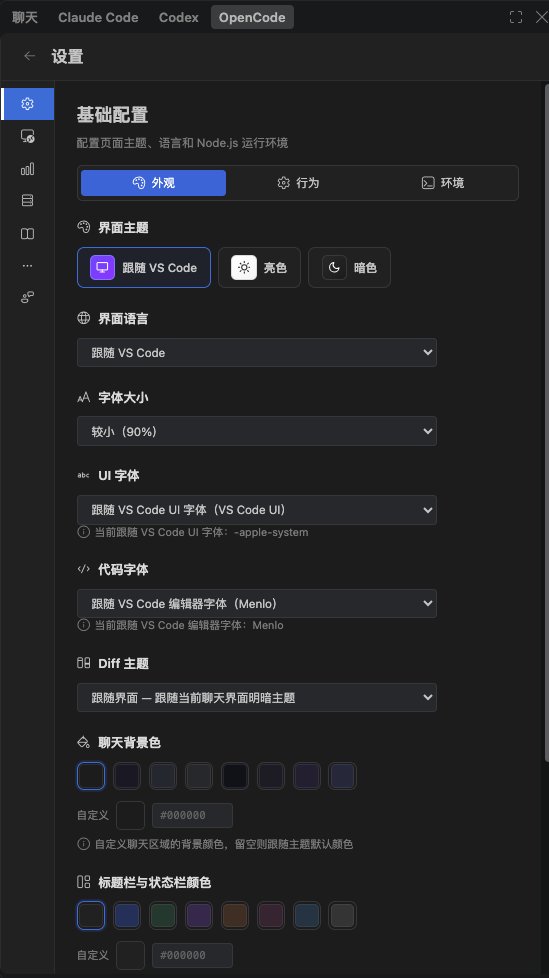
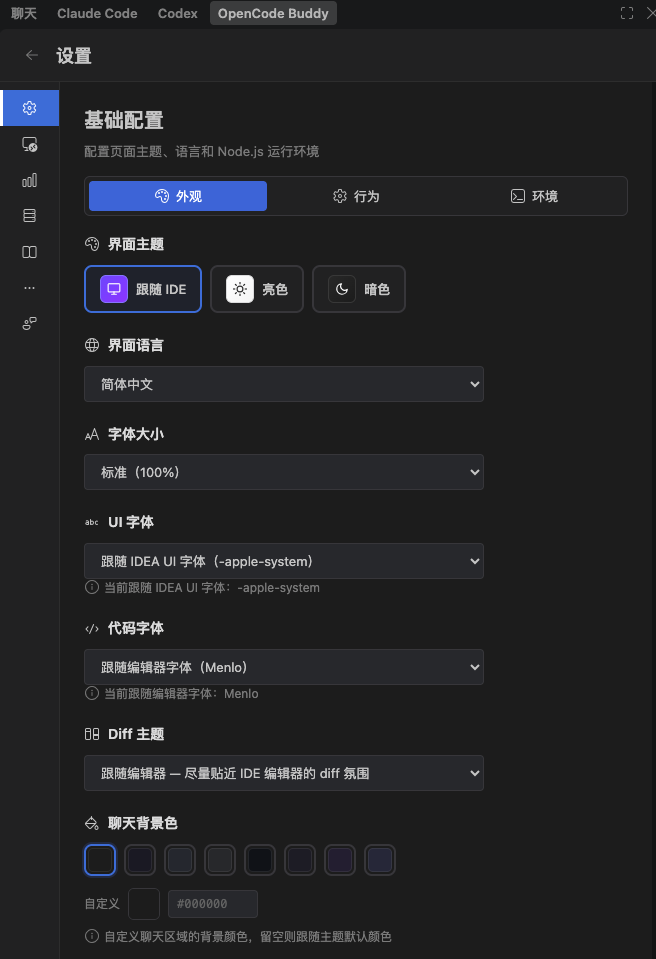
✨ 更新 readme

diff --git a/README.zh-CN.md b/README.zh-CN.md
@@ -20,57 +20,68 @@
 
 ## 功能特性
 
-- **持久化 opencode 守护进程** —— 无需为每条消息生成进程。`opencode serve`（默认端口 4096，可用
-  `OPENCODE_PORT` 覆盖）按需启动或复用，跨请求保持预热，崩溃后自动重启。
-- **完整聊天界面** —— 流式文本、思考增量、带 diff 的工具调用卡片；工具窗口内多标签会话，支持脱离为独立窗口。
-- **原生输入** —— `@文件名` 引用、图片附件、编辑器选区/文件路径一键发送、opencode 原生斜杠命令
-  （`/init`、`/review` 等）、`!shell` 命令，以及上下文压缩流程。
-- **Agent / 模型 / 推理力度** —— build / plan 模式切换，读取 opencode 配置里的任意 provider + model 组合，
-  以及推理力度（variant）选择。
-- **审批流** —— 权限审批（once / always / reject）、question 提问和 plan 计划审批，全部在聊天区内以原生面板呈现。
-- **会话管理** —— 本地会话索引 + 收藏 + 搜索，revert / fork / compact，历史导出。
-- **MCP** —— 服务器状态查看与市场（安装 / 移除 MCP 服务器）。
-- **IDE 集成** —— 编辑器、项目视图、编辑器标签页、控制台右键菜单动作，以及 VCS 提交工具栏的
-  *Generate Commit Message*（通过 Git4Idea 跑真实 `git diff`）。
-- **跟随 VS Code** —— 明暗主题跟随 VS Code，可同步 VS Code 字体，界面支持多种语言。
-
+- **持久化 OpenCode 守护进程** —— 无需为每条消息重新创建进程。基于 `@opencode-ai/sdk` 维护常驻的 `opencode serve`（默认端口 4096，支持通过 `OPENCODE_PORT` 自定义），跨请求保持预热、心跳保活、崩溃自动重启，并通过 `AsyncLocalStorage` 实现请求上下文隔离。
+- **完整流式交互界面** —— 支持流式文本生成、实时思考过程与增量展开（Thinking Deltas）、工具调用卡片与实时 Diff 展示。
+- **多面板与灵活布局** —— 支持 VS Code 左侧活动栏（Activity Bar）、右侧辅助侧边栏（Secondary Sidebar）以及编辑器分栏标签页（Editor Split）；支持在编辑器标题栏一键唤出。
+- **多会话标签页管理** —— 顶部原生多 Tab 会话设计，可在同一窗口内无缝切换、新建与管理多个独立对话。
+- **便捷上下文与输入交互**：
+  - `@` 快速检索并引用工作区文件或代码片段。
+  - 支持图片附件拖拽与剪贴板直接粘贴。
+  - 编辑器代码选区、文件路径一键发送至上下文。
+  - 支持 OpenCode 原生斜杠命令（`/init`、`/review` 等）与 `!shell` 命令。
+  - 支持上下文压缩（Context Compaction）以节省 Token。
+- **Agent 模式 / 模型 / 思考深度** —— 支持 Build / Plan 等工作模式快速切换；实时从本地 OpenCode 读取已配置的 Provider 与模型列表；支持按需调整思考深度 / 变体（Variant / Reasoning Depth，如 low/medium/high）。
+- **权限审批与交互式问答** —— 细粒度权限审批系统（支持单次允许、始终允许、拒绝），原生集成 OpenCode 交互式提问（AskUserQuestion 弹窗问答）与 Plan 计划确认流程。
+- **代码修改管理与一键回滚 (Undo File Changes)** —— 实时追踪 AI 对工作区文件的修改，支持按文件单项撤销或一键全量回滚代码变更。
+- **会话历史与时光穿梭 (Rewind / Fork)** —— 本地会话管理支持检索、收藏、重命名与删除；支持时光回溯（Rewind）到历史任意节点重新编辑与生成；支持将对话历史导出为 Markdown。
+- **MCP 服务与扩展市场** —— 实时监控 MCP 服务连接状态，内置 MCP 市场支持浏览、一键安装、移除与配置 MCP 服务器。
+- **技能系统管理 (Skills)** —— 支持全局（Global）与工作区（Local）技能的自动发现、一键导入、启用/禁用切换，并支持在 VS Code 中直接打开编辑 `SKILL.md`。
+- **Token 用量统计与监控** —— 实时追踪每次对话及工具调用的 Token 消耗与统计数据。
+- **外观与个性化定制** —— 完美融合 VS Code 亮暗主题；支持独立自定义 Webview 界面字体、代码等宽字体、字体大小；支持自定义聊天背景色、状态栏/标题栏色彩及 Diff 视图明暗主题；支持多语言切换。
 
 ## 使用教程
 
 ### 1. 打开聊天面板
 
-安装插件后，点击 VS Code 侧栏的 OpenCode 图标即可打开聊天界面。或者通过命令面板执行 `OpenCode: 在编辑器分栏打开 OpenCode`，在编辑器分栏中打开一个独立的标签页（每个标签页都是一个独立的会话）。
+安装插件后，可以通过以下几种方式打开 OpenCode Buddy：
+- 点击 VS Code 左侧活动栏的 **OpenCode 图标**。
+- 在编辑器标题栏右上角点击 **OpenCode 图标**。
+- 在命令面板（`Ctrl+Shift+P` / `Cmd+Shift+P`）执行：
+  - `打开 OpenCode Buddy 面板（左侧）`
+  - `新建 OpenCode Buddy 对话`（在编辑器分栏打开独立标签页，支持多个独立会话并发）
 
-<img src="media/home.png" width="400" alt="聊天主界面">
+<img src="media/home.png" width="600" alt="聊天主界面">
+
+*截图展示为简体中文界面。*
 
 界面区域一览：
 
-- **顶部 tab**：`聊天 / Claude Code / Codex / OpenCode` —— 快速切换不同会话。
-- **右上角**：新建会话 / 搜索 / 历史 / 设置。
-- **底部三栏**：
+- **顶部会话 Tab**：支持新建、关闭与快速切换多个独立对话会话。
+- **右上角操作区**：新建会话、搜索会话、历史记录列表、设置面板。
+- **底部控制栏**：
   - `任务 / 子代理 / 编辑` —— 切换输入模式。
-  - `Build` —— 选择工作模式（Build / Plan 等）。
-  - **模型选择** —— 切换当前模型（例如 `Nemotron-3.5-Lightning-Free`）。
-  - **推理深度** —— 例如 `medium`，控制模型思考深度。
-- **输入框**：支持 `@文件名` 引用文件、`/bash 命令`、`/opencode 命令`，回车发送。
+  - `Build / Plan` —— 切换工作模式。
+  - **模型选择** —— 快速切换当前生效的模型（如 `deepseek-v3`、`claude-3-7-sonnet` 等）。
+  - **思考深度 (Variant)** —— 控制思考模型的思考力度（如 `low`、`medium`、`high`）。
+- **输入框**：支持 `@文件名` 检索引用文件、图片拖拽粘贴、`/bash 命令`、`/opencode 命令`，按 `Enter` 发送（`Shift+Enter` 换行）。
 
 ### 2. 个性化设置
 
 点击聊天界面右上角的齿轮图标打开设置面板：
 
-<img src="media/settings.png" width="400" alt="设置页面">
+<img src="media/settings.png" width="350" alt="设置页面">
 
 **基础配置 → 外观** 主要选项：
 
 | 项 | 说明 |
 |---|---|
 | 界面主题 | 跟随 VS Code / 亮色 / 暗色 |
-| 界面语言 | 跟随 VS Code |
-| 字体大小 / UI 字体 / 代码字体 | 控制 webview 内的字号与字体 |
-| Diff 主题 | 控制 diff 视图的明暗主题 |
-| 聊天背景色 / 标题栏与状态栏颜色 | 自定义聊天区域的颜色（支持自定义十六进制） |
+| 界面语言 | 跟随 VS Code / 简体中文 / 英文 |
+| 字体大小 / UI 字体 / 代码字体 | 自定义 Webview 内文字字号与字体族 |
+| Diff 主题 | 控制 Diff 代码对比视图的明暗主题 |
+| 聊天背景色 / 标题栏与状态栏颜色 | 自定义聊天区域色彩方案（支持自定义十六进制颜色） |
 
-设置页顶部还有 `外观 / 行为 / 环境` 三个标签，分别用于外观定制、代理行为和运行时环境配置。
+设置页顶部还提供 `外观 / 行为 / 环境 / MCP / 技能` 等功能标签，方便全面定制 Agent 行为、MCP 扩展与技能配置。
 
 ## 环境要求
 

diff --git a/README.md b/README.md
@@ -19,68 +19,68 @@ A Gemini Pro subscription has been purchased; Deepseek cost 89 CNY. If you find 
 
 ## Features
 
-- **Persistent opencode daemon** — no per-message process spawn. `opencode serve` (default port 4096,
-  overridable via `OPENCODE_PORT`) is started or reused on demand, stays prewarmed across requests, and
-  auto-restarts on crash.
-- **Full chat interface** — streaming text, thinking deltas, tool-call cards with diffs; multi-tab
-  sessions inside the tool window, detachable into a standalone window.
-- **Native input** — `@filename` references, image attachments, one-click send of an editor selection or
-  file path, opencode's native slash commands (`/init`, `/review`, …), `!shell` commands, and a
-  context-compaction flow.
-- **Agent / model / reasoning depth** — build / plan mode switching, any provider + model combination
-  from your opencode config, and reasoning-depth (variant) selection.
-- **Approval flows** — permission approval (once / always / reject), question prompts, and plan approval,
-  all rendered as native panels inside the chat area.
-- **Session management** — local session index with favourites and search, revert / fork / compact, and
-  history export.
-- **MCP** — server status view and a marketplace (install / remove MCP servers).
-- **Editor integration** — a button in the editor title bar, plus two commands: open the panel in the
-  left sidebar, or open it as an independent tab in an editor split.
-- **Follow VS Code** — light/dark theme follows VS Code, VS Code font syncing, and a
-  multi-language UI.
+- **Persistent OpenCode Daemon** — No per-message process spawn. Runs a persistent `opencode serve` daemon (default port 4096, configurable via `OPENCODE_PORT`) via `@opencode-ai/sdk`, prewarmed across requests, with automatic heartbeat keep-alive, crash recovery, and context isolation using `AsyncLocalStorage`.
+- **Full Streaming Chat Interface** — Real-time streaming text responses, interactive thinking deltas, structured tool-call cards with expandable diff views.
+- **Multi-Panel & Flexible Layouts** — Native integration with VS Code Activity Bar (left), Secondary Sidebar (right), and Editor Split views; one-click launch from the editor title bar.
+- **Multi-Tab Session Management** — Seamless multi-tab conversation switching and management within the same panel window.
+- **Rich Context & Native Inputs**:
+  - `@` symbol file and symbol reference autocomplete.
+  - Image attachments via drag-and-drop or clipboard paste.
+  - One-click context insertion from editor selection and file paths.
+  - OpenCode native slash commands (`/init`, `/review`, etc.) and `!shell` command executions.
+  - Context compaction support to optimize token usage.
+- **Agent Modes, Models & Reasoning Depth** — Switch between Build and Plan modes, dynamically retrieve and select configured providers/models from OpenCode, and configure reasoning depth / variants (e.g. `low`, `medium`, `high`).
+- **Permission Approvals & Interactive Prompts** — Granular permission approval system (allow once, always allow, reject), interactive questions (`AskUserQuestion` dialog), and plan confirmation approvals directly in chat.
+- **File Changes & One-Click Undo** — Live tracking of AI-generated file edits with diffs; revert changes per-file or roll back all changes in batch.
+- **Session History & Time Travel (Rewind / Fork)** — Local session index with search, favourites, renaming, and deletion; rewind to any previous message turn to fork or regenerate; export conversations to Markdown.
+- **MCP Servers & Marketplace** — Monitor MCP server status, browse, install, configure, and remove MCP servers through a built-in marketplace.
+- **Skills System Management** — Global and workspace-level skill auto-discovery, one-click import, enable/disable toggling, and direct opening of `SKILL.md` files in VS Code.
+- **Token & Usage Tracking** — Live tracking and visualization of token consumption per message and tool call.
+- **Theming & Deep Personalization** — Fully synchronized with VS Code light/dark themes, custom font sizes and families (UI & monospace code fonts), customizable chat backgrounds and bar colors, diff theme options, and multi-language UI.
 
 ## Usage
 
-### 1. Open the chat panel
+### 1. Open the Chat Panel
 
-After installing the extension, click the OpenCode icon in the VS Code sidebar to open the chat panel.
-You can also open an independent tab in an editor split by running the *Open OpenCode Buddy in Editor
-Split* command from the command palette — each tab is its own conversation.
+After installing the extension, you can open OpenCode Buddy in several ways:
+- Click the **OpenCode icon** in the VS Code Activity Bar (left).
+- Click the **OpenCode icon** in the editor title bar.
+- Open the Command Palette (`Ctrl+Shift+P` / `Cmd+Shift+P`) and run:
+  - `Open OpenCode Buddy Panel (Left)`
+  - `New OpenCode Buddy Chat` (opens a standalone tab in an editor split for parallel sessions)
 
-<img src="media/home.png" width="400" alt="Chat main view">
+<img src="media/home.png" width="600" alt="Chat main view">
 
 *Screenshots show the UI in Simplified Chinese.*
 
 UI layout:
 
-- **Top tabs** — `Chat / Claude Code / Codex / OpenCode` to switch between conversations.
-- **Top-right** — new conversation / search / history / settings.
-- **Bottom bar**:
-  - `Task / Subagent / Edit` — switch input mode.
-  - `Build` — select the working mode (Build / Plan, etc.).
-  - **Model selector** — pick the current model (e.g. `Nemotron-3.5-Lightning-Free`).
-  - **Reasoning depth** — e.g. `medium`, controls how deeply the model thinks.
-- **Input box** — `@filename` attaches files, `/bash ...` runs shell commands, `/opencode ...` runs
-  opencode commands. `Enter` sends.
+- **Top Tabs** — Switch between, open, and close independent conversation sessions.
+- **Top-Right Actions** — New session, search, history drawer, and settings.
+- **Bottom Bar**:
+  - `Task / Subagent / Edit` — Switch input mode.
+  - `Build / Plan` — Switch working mode.
+  - **Model Selector** — Select active model (e.g. `deepseek-v3`, `claude-3-7-sonnet`).
+  - **Reasoning Depth (Variant)** — Control reasoning effort (e.g. `low`, `medium`, `high`).
+- **Input Box** — `@filename` references, drag-and-drop images, `/bash ...` commands, `/opencode ...` commands. Press `Enter` to send (`Shift+Enter` for new line).
 
-### 2. Personalise settings
+### 2. Personalise Settings
 
 Click the gear icon in the top-right of the chat panel to open the settings page:
 
-<img src="media/settings.png" width="400" alt="Settings page">
+<img src="media/settings.png" width="350" alt="Settings page">
 
 **Basic Config → Appearance** main options:
 
 | Item | Description |
 |---|---|
 | UI theme | Follow VS Code / Light / Dark |
-| UI language | Follow VS Code |
-| Font size / UI font / Code font | Font and sizing inside the webview |
+| UI language | Follow VS Code / Simplified Chinese / English |
+| Font size / UI font / Code font | Font families and sizing inside the webview |
 | Diff theme | Light/dark theme for the diff view |
-| Chat background / Title-bar and status-bar colour | Custom chat-area colour (custom hex supported) |
+| Chat background / Title-bar and status-bar colour | Custom chat-area colour scheme (custom hex supported) |
 
-The settings page also has `Appearance / Behaviour / Environment` tabs at the top — Appearance for
-visual customisation, Behaviour for agent behaviour, and Environment for runtime configuration.
+The settings page also includes tabs for `Appearance`, `Behaviour`, `Environment`, `MCP`, and `Skills` to configure agent parameters, MCP integrations, and skill packages.
 
 ## Requirements
 
